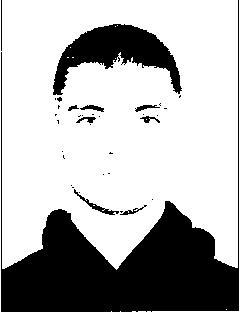
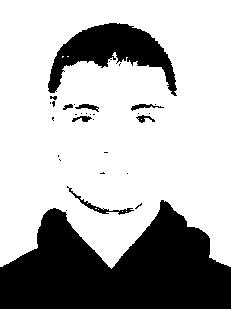
Update

diff --git a/src/main/java/com/findmeapp/findme/Services/FindLogic.java b/src/main/java/com/findmeapp/findme/Services/FindLogic.java
@@ -10,6 +10,8 @@ import java.awt.image.BufferedImage;
 
 import java.io.File;
 import java.io.IOException;
+import java.util.HashMap;
+import java.util.Map;
 
 
 @Service
@@ -33,9 +35,11 @@ public class FindLogic {
 
             //Debug
 
-            //BufferedImage posterizedImage = posterize(bufferedImage, 2); // Количество уровней цвета
 
-            BufferedImage posterizedImage = binarize(bufferedImage); // Количество уровней цвета
+            BufferedImage posterizedImage = posterize(bufferedImage, 2); // Количество уровней цвета
+
+
+
 
             // Создаем директорию для сохранения изображений, если ее нет
             File outputDir = new File("output_images");
@@ -107,6 +111,20 @@ public class FindLogic {
 
         return pixelArray;
     }
+
+    //Для определение фона, метод пройдет по углам картинки и узнаем какой цвет чаще всего содержится, использовать
+    //Хеш мапу для гхранение цвета и его популяторности тоесть он пройдется по всей границе картинки
+    private Color findMostPopularColor(BufferedImage image){
+
+        Map<Color, Integer> countColor = new HashMap<>();
+
+        for (int x = 0; x < image.getWidth(); x++){
+
+        }
+
+        return null;
+    }
+
     //Как вариант что бы было легче высматривать силует можно все оттенки одного цвета которые
     // размазываются на границе, взять их и сделать одним цветом к примеру контур
     // лошади черный и разтушовуется в серый для перехода а я его возьму и сделаю весь черным
@@ -134,29 +152,6 @@ public class FindLogic {
         return result;
     }
 
-    public BufferedImage binarize(BufferedImage image) {
-        int width = image.getWidth();
-        int height = image.getHeight();
-        BufferedImage result = new BufferedImage(width, height, image.getType());
-
-        for (int y = 0; y < height; y++) {
-            for (int x = 0; x < width; x++) {
-                Color color = new Color(image.getRGB(x, y));
-
-                // Convert to grayscale
-                int gray = (color.getRed() + color.getGreen() + color.getBlue()) / 3;
-
-                // Apply threshold
-                int threshold = 128; // You can adjust the threshold value if needed
-                int binaryColor = gray >= threshold ? 255 : 0;
-                Color newColor = new Color(binaryColor, binaryColor, binaryColor);
-
-                result.setRGB(x, y, newColor.getRGB());
-            }
-        }
-
-        return result;
-    }
 
     /**
      * Get rgb colors from int pixel

diff --git a/src/main/java/com/findmeapp/findme/Repositories/PhotoRepository.java b/src/main/java/com/findmeapp/findme/Repositories/PhotoRepository.java
@@ -1,0 +1,4 @@
+package com.findmeapp.findme.Repositories;
+
+public class PhotoRepository {
+}
